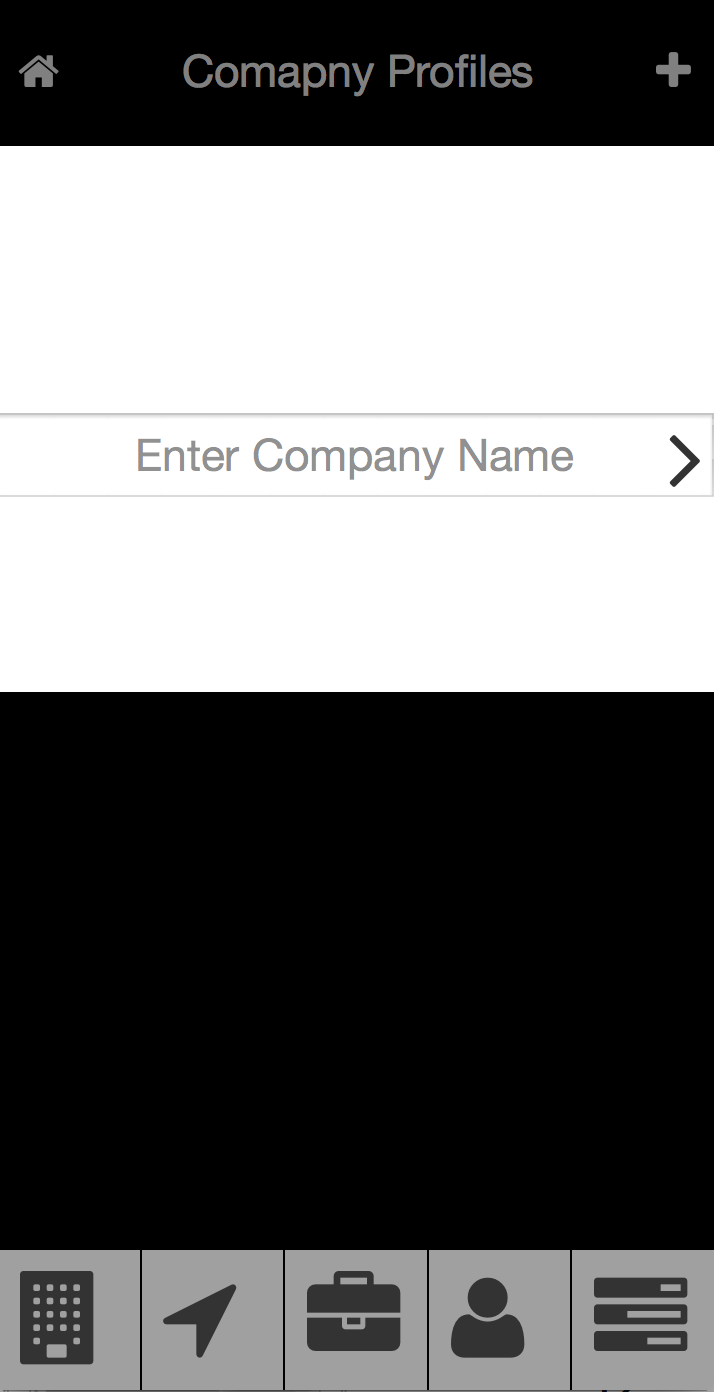
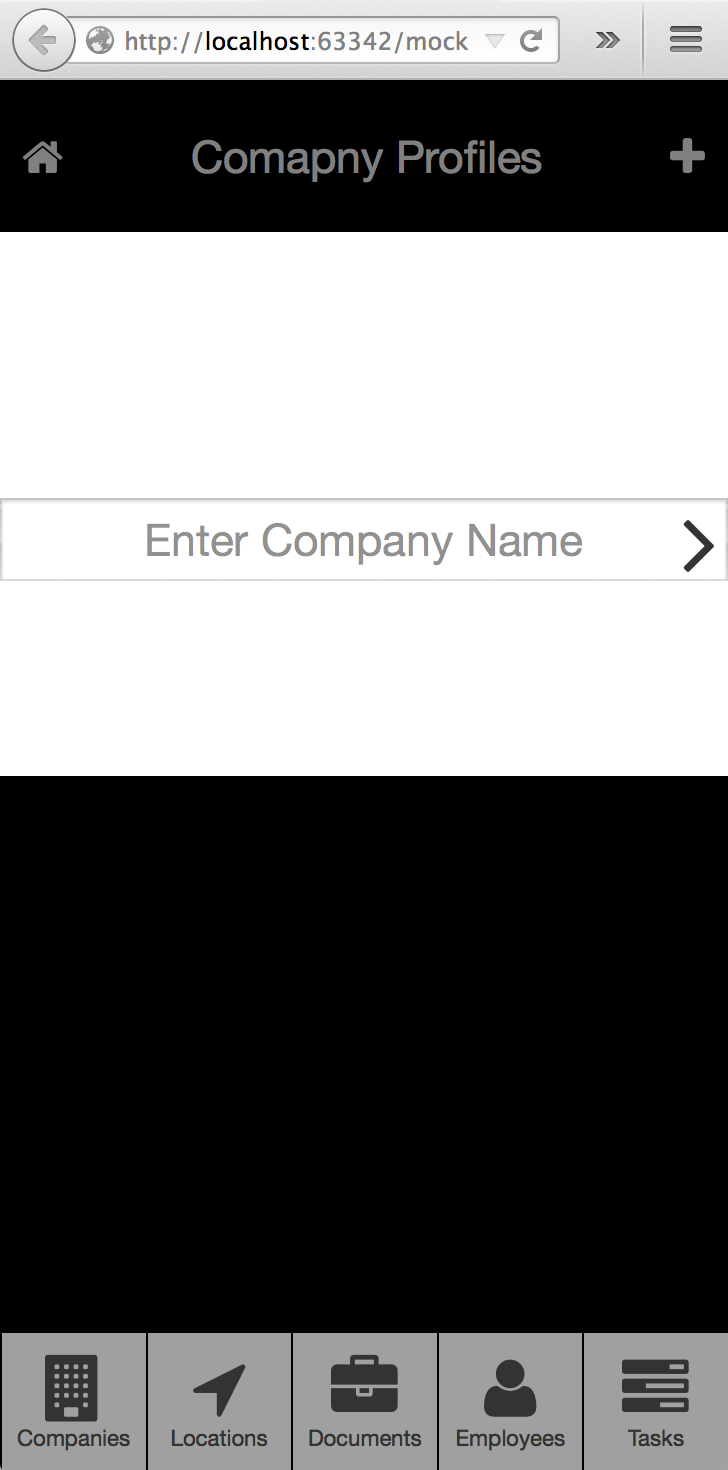
change min-height to fit iphone4 size

diff --git a/screen8.html b/screen8.html
@@ -25,11 +25,11 @@
     </section>
     <footer>
         <ul>
-            <li id="company"><i class="fa fa-building fa-3x"></i></li>
-            <li id="location"><i class="fa fa-location-arrow fa-3x"></i></li>
-            <li id="document"><i class="fa fa-briefcase fa-3x"></i></li>
-            <li id="employees"><i class="fa fa-user fa-3x"></i></li>
-            <li id="tasks"><i class="fa fa-tasks fa-3x"></i></li>
+            <li id="company"><i class="fa fa-building fa-3x"></i><br/>Companies</li>
+            <li id="location"><i class="fa fa-location-arrow fa-3x"></i><br/>Locations</li>
+            <li id="document"><i class="fa fa-briefcase fa-3x"></i><br/>Documents</li>
+            <li id="employees"><i class="fa fa-user fa-3x"></i><br/>Employees</li>
+            <li id="tasks"><i class="fa fa-tasks fa-3x"></i><br/>Tasks</li>
         </ul>
     </footer>
 <script src="//ajax.googleapis.com/ajax/libs/jquery/1.11.2/jquery.min.js"></script>

diff --git a/style.css b/style.css
@@ -857,7 +857,7 @@ header{
 
 #screen9 #topview{
     height:40%;
-    min-height: 250px;
+    min-height: 100px;
     position: relative;
 }
 
@@ -874,7 +874,7 @@ header{
 #screen9 #bottomview{
     height:40%;
     background-color: black;
-    min-height: 250px;
+    min-height: 100px;
 }
 
 #screen9 #goArrow{
@@ -896,13 +896,17 @@ header{
 }
 
 #screen9 footer li{
+    font-size: 10px;
     width:20%;
     height:100%;
     float:left;
     background-color: #a0a0a0;
     border-left:1px solid black;
     position: relative;
-    padding:10px;
+    padding-top:10px;
+}
+#screen9 footer li{
+    text-align: center;
 }
 
 #screen9 footer li:hover{
